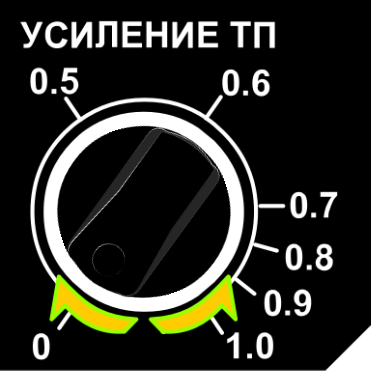
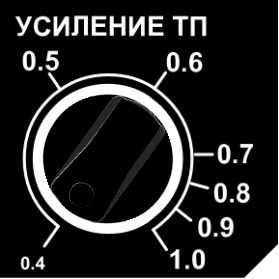
новые компоненты, исправлены старые по запросу.

diff --git a/ComponentLibrary/elements/Controls/Su30/VerticalScaleIndicator/VerticalScaleIndicator.qml b/ComponentLibrary/elements/Controls/Su30/VerticalScaleIndicator/VerticalScaleIndicator.qml
@@ -1,0 +1,78 @@
+import QtQuick 2.15
+import common_qml 1.0
+
+BaseSceneComponent {
+    id:root
+    my_type:"VerticalScaleIndicator"
+    my_subtype:"VerticalScaleIndicator"
+    componentPath:"elements/Controls/Su30/VerticalScaleIndicator/VerticalScaleIndicator.qml"
+    previewSource:"preview.png"
+    width:60;height:220
+    property real value:0
+    property real minimumValue:0
+    property real maximumValue:300
+    property int majorDivisions:3
+    property int minorDivisions:5
+    property real multiplier:100
+    property string units:"kgf/cmВІ"
+    property bool showUnits:true
+    readonly property int tickCount:Math.max(1,majorDivisions)*Math.max(1,minorDivisions)
+    customProperties:({value:value,minimumValue:minimumValue,maximumValue:maximumValue,
+        majorDivisions:majorDivisions,minorDivisions:minorDivisions,multiplier:multiplier,units:units,showUnits:showUnits})
+    propertySchema:({
+        value:{displayName:"Value",type:"number",bindable:true,access:"readOnly",step:0.1},
+        minimumValue:{displayName:"Minimum",type:"number",step:1},
+        maximumValue:{displayName:"Maximum",type:"number",step:1},
+        majorDivisions:{displayName:"Major divisions",type:"number",min:1,max:20,step:1},
+        minorDivisions:{displayName:"Minor divisions",type:"number",min:1,max:10,step:1},
+        multiplier:{displayName:"Scale multiplier",type:"number",min:0.001,max:1000000,step:1},
+        units:{displayName:"Units",type:"string"},showUnits:{displayName:"Show units",type:"bool"}})
+    function synchronizeState(name,v){
+        if(customProperties[name]!==v){customProperties[name]=v;customPropertiesChanged()}
+    }
+    onValueChanged:synchronizeState("value",value)
+    onMinimumValueChanged:synchronizeState("minimumValue",minimumValue)
+    onMaximumValueChanged:synchronizeState("maximumValue",maximumValue)
+    onMajorDivisionsChanged:synchronizeState("majorDivisions",majorDivisions)
+    onMinorDivisionsChanged:synchronizeState("minorDivisions",minorDivisions)
+    onMultiplierChanged:synchronizeState("multiplier",multiplier)
+    onUnitsChanged:synchronizeState("units",units)
+    onShowUnitsChanged:synchronizeState("showUnits",showUnits)
+    Rectangle {
+        anchors.fill:parent;color:"#30474a";border.color:"#8da6a1";border.width:Math.max(1,root.width/60)
+        Text {x:0;y:2;width:parent.width;height:root.height*0.07;text:"Г—"+root.multiplier;color:"#c1d3ca";
+            horizontalAlignment:Text.AlignHCenter;font.pixelSize:root.height*0.047;fontSizeMode:Text.Fit}
+        Item {
+            id:scaleArea
+            x:root.width*0.09;y:root.height*0.105;width:root.width*0.8;height:root.height*0.82
+            Rectangle {x:parent.width*0.9;width:root.width/60;height:parent.height;color:"#c1d3ca"}
+            Repeater {
+                model:root.tickCount+1
+                Item {
+                    required property int index
+                    property bool major:index % Math.max(1,root.minorDivisions)===0
+                    y:scaleArea.height*(1-index/root.tickCount)
+                    width:scaleArea.width;height:1
+                    Rectangle {x:scaleArea.width*(major?0.48:0.65);width:scaleArea.width*0.9-x;height:root.width/60;color:"#c1d3ca"}
+                    Text {
+                        visible:parent.major
+                        x:0;y:-height/2;width:scaleArea.width*0.42;height:root.height*0.055
+                        text:Number(((root.minimumValue+(root.maximumValue-root.minimumValue)*parent.index/root.tickCount)/root.multiplier).toFixed(3)).toString()
+                        color:"#c1d3ca";font.pixelSize:root.height*0.053;horizontalAlignment:Text.AlignHCenter;fontSizeMode:Text.Fit
+                    }
+                }
+            }
+            Canvas {
+                objectName:"scalePointer"
+                x:scaleArea.width*0.43
+                y:root.mapLinearValue(root.value,root.minimumValue,root.maximumValue,scaleArea.height,0,true)-height/2
+                width:scaleArea.width*0.43;height:root.height*0.035
+                onPaint:{var c=getContext("2d");c.clearRect(0,0,width,height);c.beginPath();c.moveTo(0,0);c.lineTo(width,height/2);c.lineTo(0,height);c.closePath();c.fillStyle="#e0f0df";c.fill()}
+                onWidthChanged:requestPaint()
+                onHeightChanged:requestPaint()
+            }
+        }
+        Text {objectName:"scaleUnits";visible:root.showUnits;x:2;y:root.height*0.94;width:parent.width-4;height:root.height*0.055;
+            text:root.units;color:"#c1d3ca";horizontalAlignment:Text.AlignHCenter;font.pixelSize:root.height*0.04;fontSizeMode:Text.Fit}
+    }
+}

diff --git a/ComponentLibrary/elements/Controls/Su30/Su30RetractExtend/Su30RetractExtend.qml b/ComponentLibrary/elements/Controls/Su30/Su30RetractExtend/Su30RetractExtend.qml
@@ -1,0 +1,47 @@
+import QtQuick 2.15
+import common_qml 1.0
+
+ControlState {
+    id: root
+    my_type: "Su30RetractExtend"
+    my_subtype: "Su30RetractExtend"
+    componentPath: "elements/Controls/Su30/Su30RetractExtend/Su30RetractExtend.qml"
+    previewSource: "preview.png"
+    width: 90; height: 300
+    propertySchema: ({value: {displayName:"Position", type:"enum", bindable:true, access:"readWrite",
+        values:[{label:"УБР",value:0},{label:"ВЫП",value:1}]}})
+    Item {
+        id: visual
+        width:90; height:300
+        scale:Math.min(root.width/width,root.height/height)
+        transformOrigin:Item.TopLeft
+        x:(root.width-width*scale)/2; y:(root.height-height*scale)/2
+        AdaptiveSvgImage {anchors.fill:parent; source:Qt.resolvedUrl("housing.svg")}
+        Rectangle {
+            objectName:"movingGrip"
+            x:17; y:root.currentState === 0 ? 57 : 166; width:54; height:76
+            color:"#bbcecb"; border.color:"#7f9694"; radius:2
+            gradient:Gradient {
+                GradientStop {position:0; color:"#d8e7e2"}
+                GradientStop {position:0.5; color:"#a5bbb9"}
+                GradientStop {position:1; color:"#d1e0da"}
+            }
+            Repeater {model:9; Rectangle {x:2; y:5+index*8; width:50; height:1; color:"#829b99"}}
+        }
+    }
+    MouseArea {
+        objectName:"leverInput"
+        anchors.fill:parent; enabled:root.acceptsInput; preventStealing:true
+        cursorShape:Qt.PointingHandCursor
+        property real pressY:0
+        property bool dragged:false
+        onPressed:function(mouse){pressY=mouse.y;dragged=false}
+        onPositionChanged:function(mouse){
+            if(pressed && Math.abs(mouse.y-pressY)>8) dragged=true
+        }
+        onReleased:function(mouse){
+            root.commitFromUser(dragged ? (mouse.y < root.height/2 ? 0 : 1) : 1-root.currentState)
+        }
+        onWheel:function(wheel){if(wheel.angleDelta.y)root.commitFromUser(wheel.angleDelta.y>0?0:1)}
+    }
+}

diff --git a/ComponentLibrary/elements/Controls/Su30/Su30TargetType/Su30TargetType.qml b/ComponentLibrary/elements/Controls/Su30/Su30TargetType/Su30TargetType.qml
@@ -1,0 +1,35 @@
+import QtQuick 2.15
+import common_qml 1.0
+
+RotaryDiscrete {
+    id:root
+    my_type:"Su30TargetType"
+    my_subtype:"Su30TargetType"
+    componentPath:"elements/Controls/Su30/Su30TargetType/Su30TargetType.qml"
+    previewSource:"preview.png"
+    readonly property real designWidth:92.7
+    readonly property real designHeight:92.9
+    width:designWidth; height:designHeight
+    // Tick endpoints in the drawn plate share the knob pivot at (46.35,53).
+    readonly property var ticks:[{x:30.8,y:81.45},{x:46.35,y:21},{x:61.9,y:81.45}]
+    function tickAngle(t){return Math.atan2(t.x-46.35,53-t.y)*180/Math.PI}
+    angles:[tickAngle(ticks[0]),tickAngle(ticks[1]),tickAngle(ticks[2])]
+    inputCenterX:visual.x+46.35*visual.scale
+    inputCenterY:visual.y+53*visual.scale
+    propertySchema:({value:{displayName:"Target type",type:"enum",bindable:true,access:"readWrite",
+        values:[{label:"S",value:0},{label:"M",value:1},{label:"L",value:2}]}})
+    Item {
+        id:visual
+        width:root.designWidth; height:root.designHeight
+        scale:Math.min(root.width/width,root.height/height)
+        transformOrigin:Item.TopLeft
+        x:(root.width-width*scale)/2;y:(root.height-height*scale)/2
+        AdaptiveSvgImage {anchors.fill:parent;source:Qt.resolvedUrl("scale.svg")}
+        GainKnobVisual {
+            id:knob
+            objectName:"targetKnob"
+            x:46.35-width/2;y:53-height/2
+            rotation:root.visualAngle-knob.pointerAngle
+        }
+    }
+}

diff --git a/ComponentLibrary/elements/Controls/Other/TpGain/TpGain.qml b/ComponentLibrary/elements/Controls/Other/TpGain/TpGain.qml
@@ -1,6 +1,5 @@
 import QtQuick 2.15
 import common_qml 1.0
-import "_parts"
 
 RotaryDiscrete {
     id: root
@@ -20,7 +19,7 @@ RotaryDiscrete {
     inputCenterY: visualRoot.y + dialCenterY * visualRoot.scale
 
     // Midpoints of the seven engraved strokes in the original plate SVG,
-    // ordered by their labels: 0, 0.5, 0.6, 0.7, 0.8, 0.9, 1.0.
+    // ordered by their labels: 0.4, 0.5, 0.6, 0.7, 0.8, 0.9, 1.0.
     // Use the artwork coordinates, not a uniform angular increment.
     function tickAngle(x, y) {
         return Math.atan2(x - dialCenterX, dialCenterY - y) * 180 / Math.PI
@@ -31,7 +30,7 @@ RotaryDiscrete {
              tickAngle(53.3, 80.1)]
     propertySchema: ({ "value": {
         displayName: "Position", type: "enum", bindable: true, access: "readWrite",
-        values: [{ label: "0", value: 0 }, { label: "0.5", value: 1 },
+        values: [{ label: "0.4", value: 0 }, { label: "0.5", value: 1 },
                  { label: "0.6", value: 2 }, { label: "0.7", value: 3 },
                  { label: "0.8", value: 4 }, { label: "0.9", value: 5 },
                  { label: "1.0", value: 6 }]

diff --git a/ComponentLibrary/common_qml/GainKnobVisual.qml b/ComponentLibrary/common_qml/GainKnobVisual.qml
@@ -10,7 +10,7 @@ Item {
                                                  implicitHeight / 2 - 33.8) * 180 / Math.PI
     AdaptiveSvgImage {
         anchors.fill: parent
-        source: Qt.resolvedUrl("knob.svg")
+        source: Qt.resolvedUrl("_parts/GainKnob.svg")
         fillMode: Image.PreserveAspectFit
         smooth: true
     }
